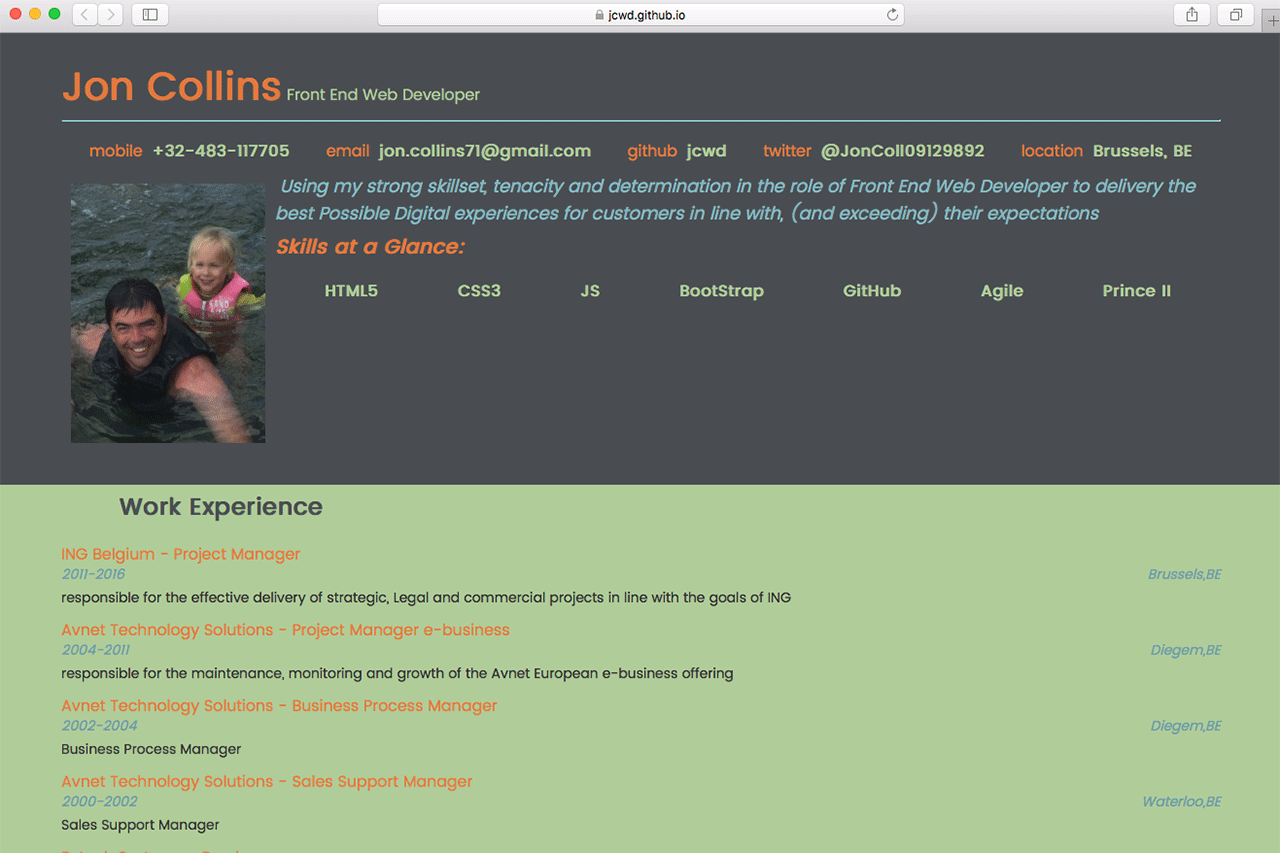
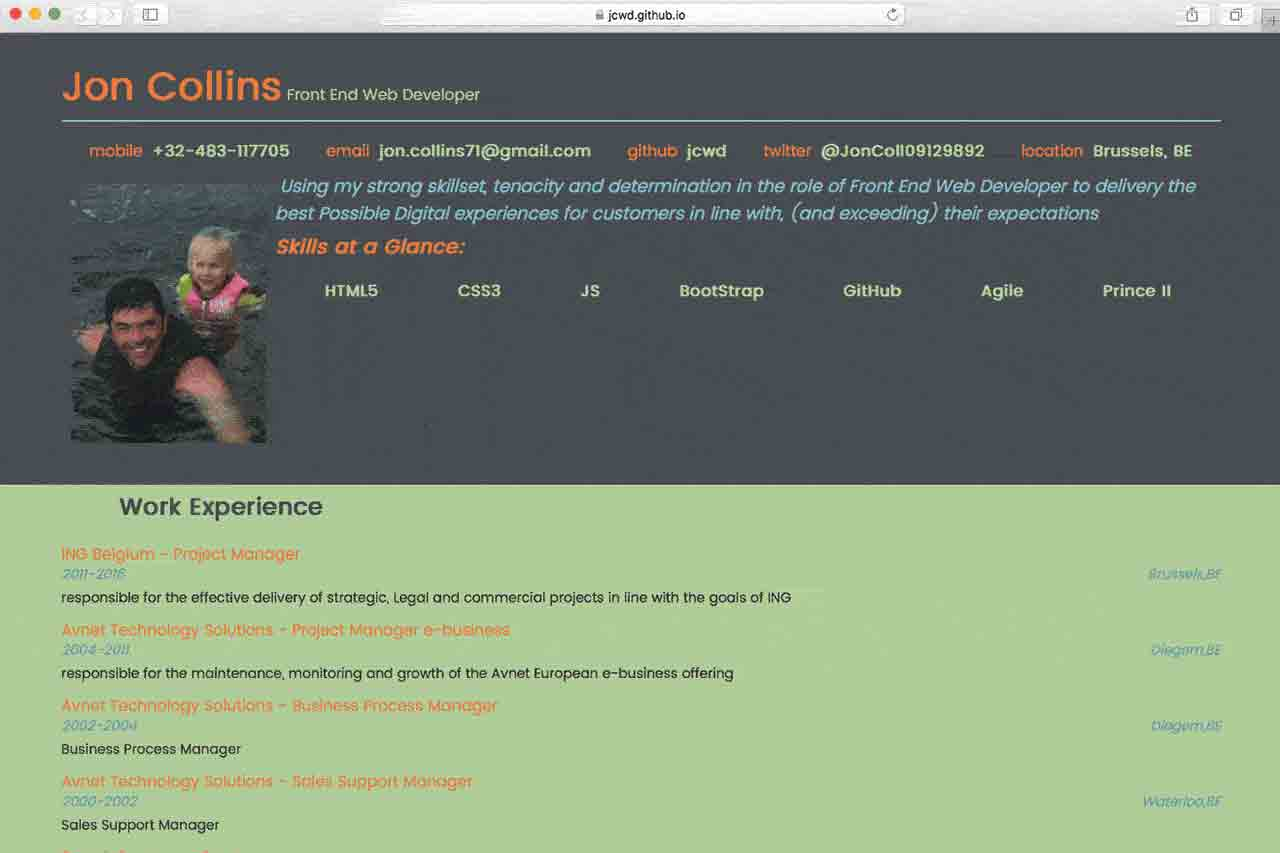
changed gifs to jpg

diff --git a/index.html b/index.html
@@ -1,1 +1,1 @@
-<!DOCTYPE html><html lang=en><meta charset=utf-8><meta content="width=device-width,initial-scale=1"name=viewport><meta content=" FILL ME IN "name=description><meta content=" FILL ME IN "name=author><title>Jon-Collins- Portfolio</title><link href=css/print.css media=print rel=stylesheet><link href=css/smartphones.css media=handheld rel=stylesheet async><header><a href=/ ><img data-pagespeed-no-defer src=img/jon.png></a><p>Jon Collins<br><span>Udacity Student</span></header><div class=container><div class=hero><strong>I am learning FEND!</strong> I have been following the Udacity FEND (Front End Web Development course in my spare time in order to polish my FE skills and bring those skills to the Marketplace. So far all has been going well and in this project - using this template I will attempt to maximy the perfomance of this underperfoming website) :)<br>Contact me: jon.collins71@gmail.com</div><div class=content><ul><li><img data-pagespeed-no-defer src=img/hometown.gif> <a href=https://jcwd.github.io/The_hometown_app>News Blog</a><p>Created a fully responsive news blog<li><img data-pagespeed-no-defer src=img/video-games.gif> <a href=https://jcwd.github.io/Arcade_game>Classic Arcade Game</a><p>Hey.. this class looks familiar.<li><img data-pagespeed-no-defer src=img/Resume.gif> <a href=https://jcwd.github.io/online-resume>Online Resume</a><p>a project to create an online Resume using JS<li><img data-pagespeed-no-defer src=img/pizzeria.png style=width:100px> <a href=views/pizza.html>Cam's Pizzeria</a><p>Who wants a performant pizza?</ul></div><footer><p>© Web Performance 2014 <span id=crp-stats></span><p>Google Pagespeed Score Mobile 86/100<p>Google Pagespeed Score Desktop 93/100</footer><style>.hero,footer{border-top:1px solid #ccc}footer span,li p{font-style:italic}html{font-size:100%;overflow-y:scroll;-webkit-tap-highlight-color:transparent;-ms-text-size-adjust:100%;-webkit-text-size-adjust:none}body{margin:0;font-size:14px;line-height:1.61;font-weight:400;background:#fff}b,header p,strong{font-weight:700}body,button,input,select,textarea{font-family:'Open Sans',sans-serif;color:#333}a{color:#12C}a:visited{color:#61C}a:focus{outline:dotted thin}a:active,a:hover{color:#c00;outline:0}code,pre{font-family:monospace,monospace;font-size:1em}ol,ul{margin:1em 0;padding:0 0 0 20px}img{border:0;max-width:50%;min-width:306px}.container,footer,header{max-width:45em;margin:0 auto}header{padding:0 .5em;color:#C90B0B}header img{border-radius:100%}header p{font-size:1.5em;padding-left:4em}header p span{font-size:.8em;font-weight:400}.hero{padding:2em;background-color:#f8f8f8;font-size:1.2em;border-bottom:1px solid #ccc}.content{padding:1em}.content li{list-style-type:none;font-size:1.1em}li img{padding-right:1em}li p{font-size:.9em}footer{padding:0 .5em}footer span{float:right}@font-face{font-family:'Open Sans';font-style:normal;font-weight:400;src:local('Open Sans'),local('OpenSans'),url(http://fonts.gstatic.com/s/opensans/v10/cJZKeOuBrn4kERxqtaUH3VtXRa8TVwTICgirnJhmVJw.woff2) format('woff2');unicode-range:U+0000-00FF,U+0131,U+0152-0153,U+02C6,U+02DA,U+02DC,U+2000-206F,U+2074,U+20AC,U+2212,U+2215,U+E0FF,U+EFFD,U+F000}@font-face{font-family:'Open Sans';font-style:normal;font-weight:700;src:local('Open Sans Bold'),local('OpenSans-Bold'),url(http://fonts.gstatic.com/s/opensans/v10/k3k702ZOKiLJc3WVjuplzOgdm0LZdjqr5-oayXSOefg.woff2) format('woff2');unicode-range:U+0000-00FF,U+0131,U+0152-0153,U+02C6,U+02DA,U+02DC,U+2000-206F,U+2074,U+20AC,U+2212,U+2215,U+E0FF,U+EFFD,U+F000}</style></div><script>!function(e,n){e.GoogleAnalyticsObject=n,e[n]=e[n]||function(){(e[n].q=e[n].q||[]).push(arguments)},e[n].l=1*new Date}(window,"ga"),ga("create","UA-XXXX-Y"),ga("send","pageview")</script><script async src=http://www.google-analytics.com/analytics.js></script><script>function logCRP(){var o=window.performance.timing,n=o.domContentLoadedEventStart-o.domLoading,t=o.domComplete-o.domLoading,d=document.getElementById("crp-stats");d.textContent="DCL: "+n+"ms, onload: "+t+"ms"}window.addEventListener("load",function(o){logCRP()})</script>
+<!DOCTYPE html><html lang=en><meta charset=utf-8><meta content="width=device-width,initial-scale=1"name=viewport><meta content=" FILL ME IN "name=description><meta content=" FILL ME IN "name=author><title>Jon-Collins- Portfolio</title><link href=css/print.css media=print rel=stylesheet><link href=css/smartphones.css media=handheld rel=stylesheet async><header><a href=/ ><img data-pagespeed-no-defer src=img/jon.png></a><p>Jon Collins<br><span>Udacity Student</span></header><div class=container><div class=hero><strong>I am learning FEND!</strong> I have been following the Udacity FEND (Front End Web Development course in my spare time in order to polish my FE skills and bring those skills to the Marketplace. So far all has been going well and in this project - using this template I will attempt to maximy the perfomance of this underperfoming website) :)<br>Contact me: jon.collins71@gmail.com</div><div class=content><ul><li><img data-pagespeed-no-defer src=img/hometown.jpg> <a href=https://jcwd.github.io/The_hometown_app>News Blog</a><p>Created a fully responsive news blog<li><img data-pagespeed-no-defer src=img/video-games.jpg> <a href=https://jcwd.github.io/Arcade_game>Classic Arcade Game</a><p>Hey.. this class looks familiar.<li><img data-pagespeed-no-defer src=img/Resume.jpg> <a href=https://jcwd.github.io/online-resume>Online Resume</a><p>a project to create an online Resume using JS<li><img data-pagespeed-no-defer src=img/pizzeria.png style=width:100px> <a href=views/pizza.html>Cam's Pizzeria</a><p>Who wants a performant pizza?</ul></div><footer><p>© Web Performance 2014 <span id=crp-stats></span><p>Google Pagespeed Score Mobile 86/100<p>Google Pagespeed Score Desktop 93/100</footer><style>.hero,footer{border-top:1px solid #ccc}footer span,li p{font-style:italic}html{font-size:100%;overflow-y:scroll;-webkit-tap-highlight-color:transparent;-ms-text-size-adjust:100%;-webkit-text-size-adjust:none}body{margin:0;font-size:14px;line-height:1.61;font-weight:400;background:#fff}b,header p,strong{font-weight:700}body,button,input,select,textarea{font-family:'Open Sans',sans-serif;color:#333}a{color:#12C}a:visited{color:#61C}a:focus{outline:dotted thin}a:active,a:hover{color:#c00;outline:0}code,pre{font-family:monospace,monospace;font-size:1em}ol,ul{margin:1em 0;padding:0 0 0 20px}img{border:0;max-width:50%;min-width:306px}.container,footer,header{max-width:45em;margin:0 auto}header{padding:0 .5em;color:#C90B0B}header img{border-radius:100%}header p{font-size:1.5em;padding-left:4em}header p span{font-size:.8em;font-weight:400}.hero{padding:2em;background-color:#f8f8f8;font-size:1.2em;border-bottom:1px solid #ccc}.content{padding:1em}.content li{list-style-type:none;font-size:1.1em}li img{padding-right:1em}li p{font-size:.9em}footer{padding:0 .5em}footer span{float:right}@font-face{font-family:'Open Sans';font-style:normal;font-weight:400;src:local('Open Sans'),local('OpenSans'),url(http://fonts.gstatic.com/s/opensans/v10/cJZKeOuBrn4kERxqtaUH3VtXRa8TVwTICgirnJhmVJw.woff2) format('woff2');unicode-range:U+0000-00FF,U+0131,U+0152-0153,U+02C6,U+02DA,U+02DC,U+2000-206F,U+2074,U+20AC,U+2212,U+2215,U+E0FF,U+EFFD,U+F000}@font-face{font-family:'Open Sans';font-style:normal;font-weight:700;src:local('Open Sans Bold'),local('OpenSans-Bold'),url(http://fonts.gstatic.com/s/opensans/v10/k3k702ZOKiLJc3WVjuplzOgdm0LZdjqr5-oayXSOefg.woff2) format('woff2');unicode-range:U+0000-00FF,U+0131,U+0152-0153,U+02C6,U+02DA,U+02DC,U+2000-206F,U+2074,U+20AC,U+2212,U+2215,U+E0FF,U+EFFD,U+F000}</style></div><script>!function(e,n){e.GoogleAnalyticsObject=n,e[n]=e[n]||function(){(e[n].q=e[n].q||[]).push(arguments)},e[n].l=1*new Date}(window,"ga"),ga("create","UA-XXXX-Y"),ga("send","pageview")</script><script async src=http://www.google-analytics.com/analytics.js></script><script>function logCRP(){var o=window.performance.timing,n=o.domContentLoadedEventStart-o.domLoading,t=o.domComplete-o.domLoading,d=document.getElementById("crp-stats");d.textContent="DCL: "+n+"ms, onload: "+t+"ms"}window.addEventListener("load",function(o){logCRP()})</script>
